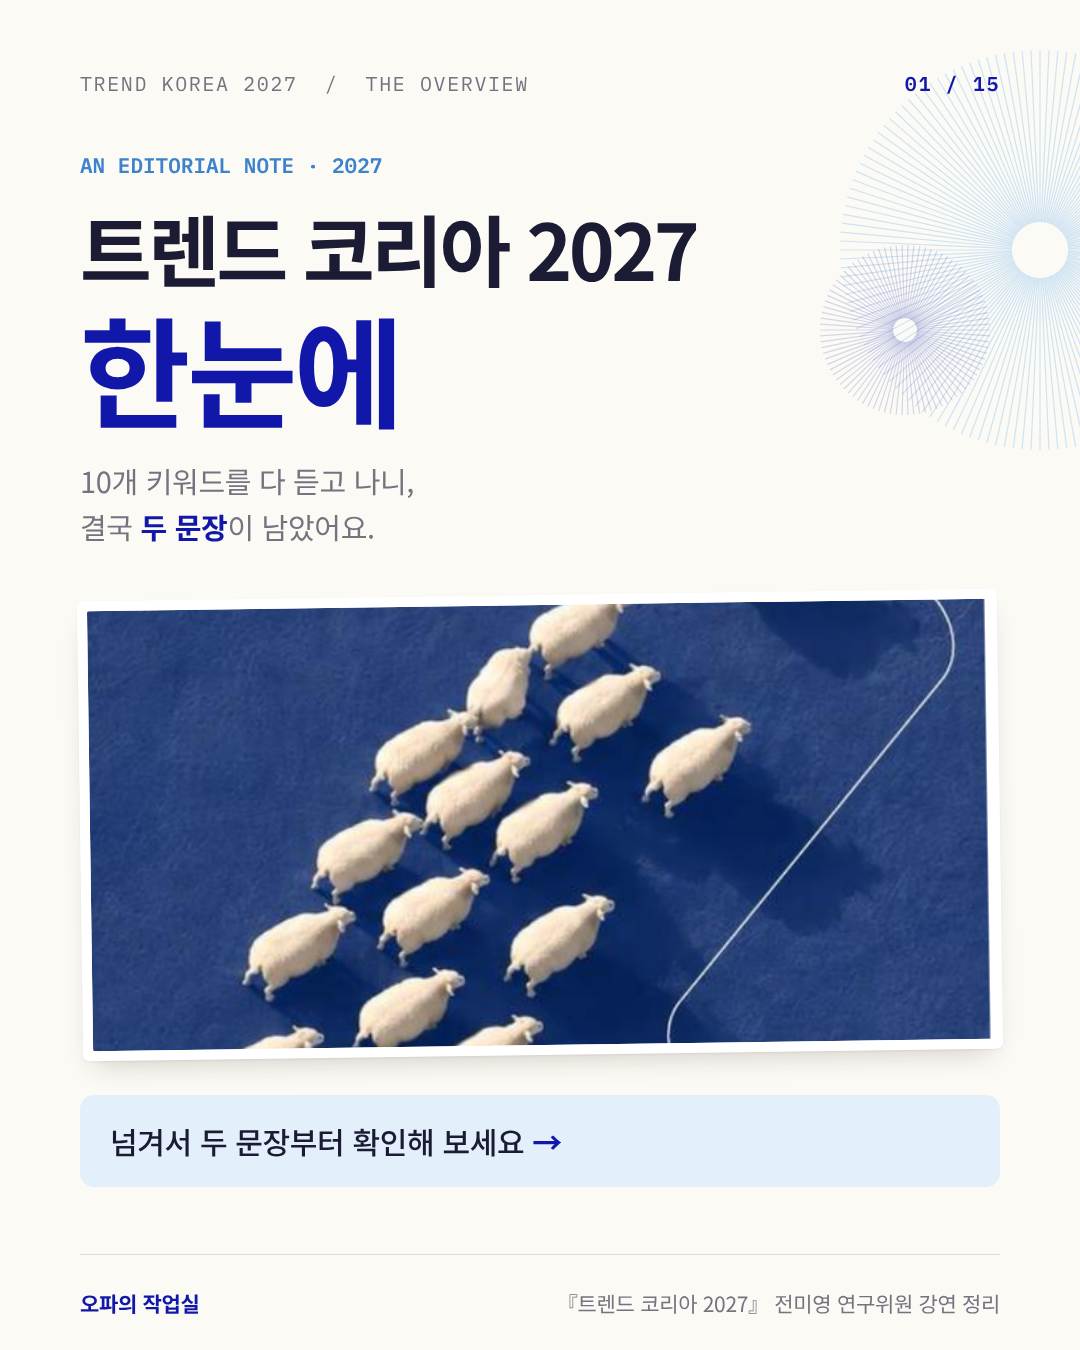
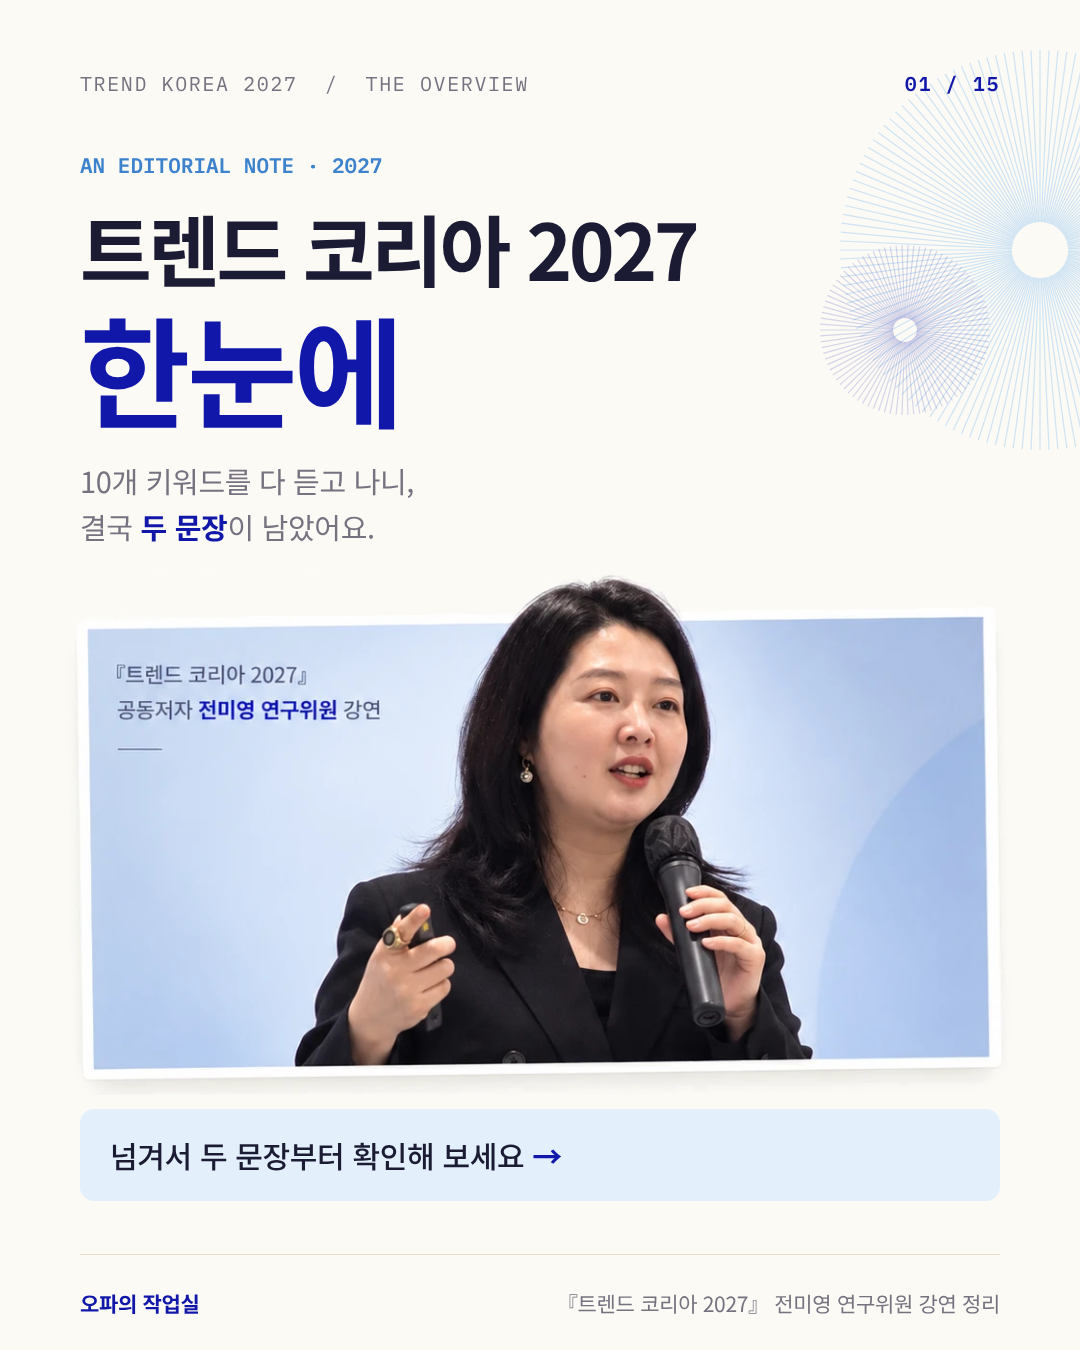
전체 키워드 표지: 강연자 사진 패널(공동저자 전미영 연구위원 강연)로 교체
Claude-Session: https://claude.ai/code/session_016hvv34jPWo253fQY5tLEVV

diff --git a/cardnews/trend-korea-2027/full2/full.html b/cardnews/trend-korea-2027/full2/full.html
@@ -7,7 +7,7 @@
   <div class="lab big">AN EDITORIAL NOTE · 2027</div>
   <h1>트렌드 코리아 2027<br><span>한눈에</span></h1>
   <p class="def">10개 키워드를 다 듣고 나니,<br>결국 <b class="u">두 문장</b>이 남았어요.</p>
-  <div class="ph hero"><img src="../img/flock.png" alt=""></div>
+  <img class="cover-photo" src="../img/cover_speaker.png" alt="">
   <div class="banner">넘겨서 두 문장부터 확인해 보세요 <b>→</b></div>
   <div class="foot"><span>오파의 작업실</span><span>『트렌드 코리아 2027』 전미영 연구위원 강연 정리</span></div>
 </section>

diff --git a/cardnews/trend-korea-2027/full2/full.css b/cardnews/trend-korea-2027/full2/full.css
@@ -88,3 +88,5 @@ h2.big { font-size: 76px; line-height: 1.25; }
 .ph.qt p { font-family: var(--serif), 'Noto Sans KR'; color: #FCFAF5; font-size: 34px; font-weight: 700; line-height: 1.4; text-align: center; letter-spacing: -.02em; }
 h2.big.quote { font-size: 80px; }
 .lead.close { margin-top: 0; padding-top: 40px; border-top: 1px solid var(--line); }
+.cover-photo { display: block; width: 953px; margin: 18px 0 0 -13px; }
+.cover-photo + .banner { margin-top: 14px; }

diff --git a/cardnews/trend-korea-2027/full2/build.py b/cardnews/trend-korea-2027/full2/build.py
@@ -107,7 +107,7 @@ cards = [card(1, 'TREND KOREA 2027 &nbsp;/&nbsp; THE OVERVIEW', '''
   <div class="lab big">AN EDITORIAL NOTE · 2027</div>
   <h1>트렌드 코리아 2027<br><span>한눈에</span></h1>
   <p class="def">10개 키워드를 다 듣고 나니,<br>결국 <b class="u">두 문장</b>이 남았어요.</p>
-  <div class="ph hero">''' + '<img src="../img/flock.png" alt="">' + '''</div>
+  <img class="cover-photo" src="../img/cover_speaker.png" alt="">
   <div class="banner">넘겨서 두 문장부터 확인해 보세요 <b>→</b></div>'''),
          card(2, 'MESSAGE 01 / 02', '''
   <div class="msg">
